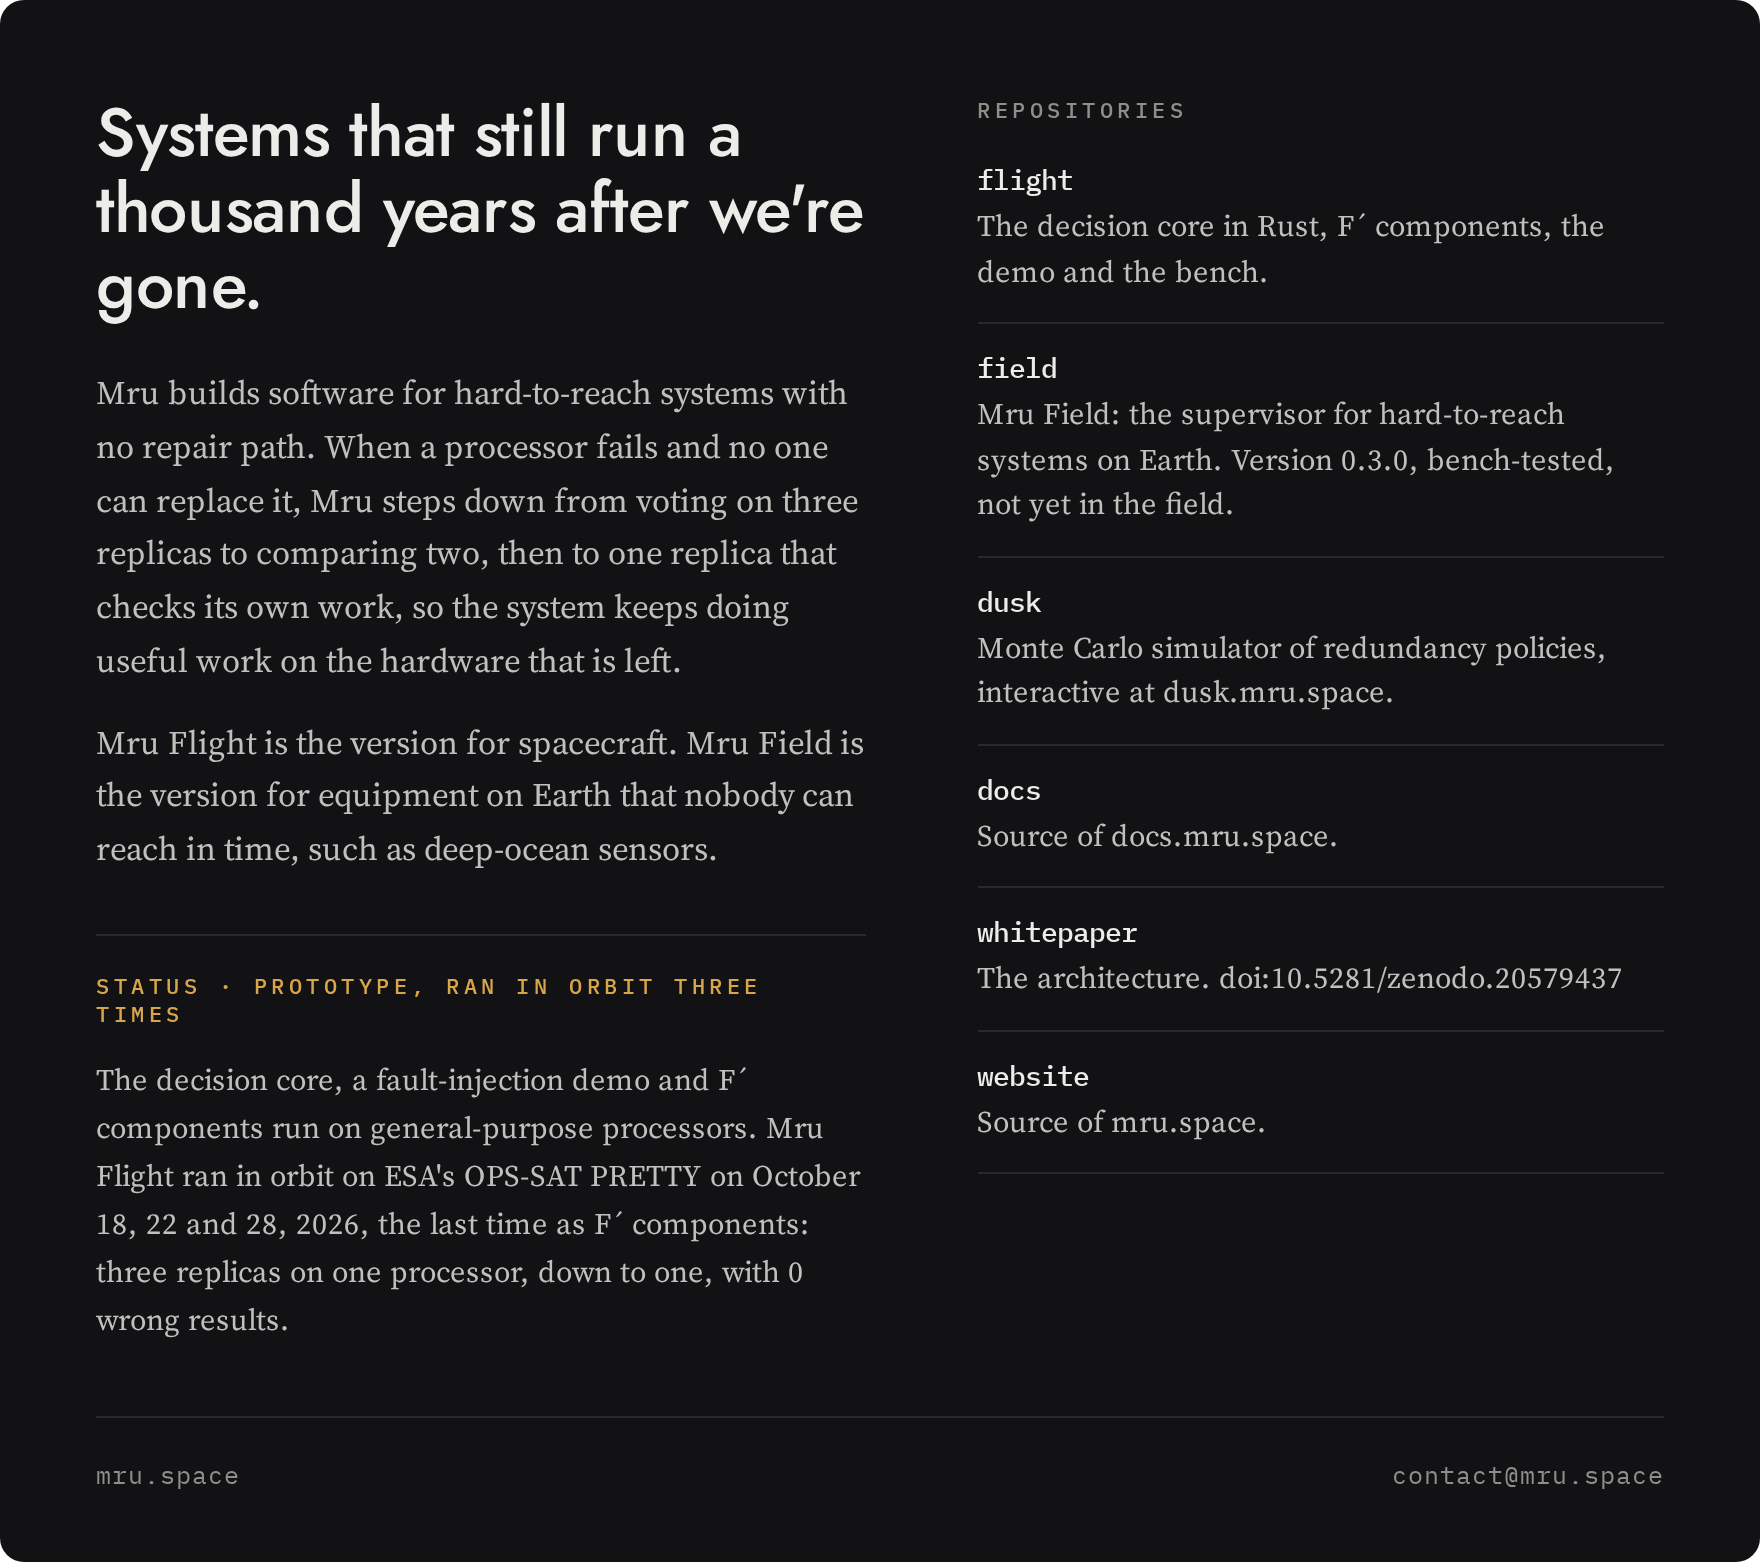
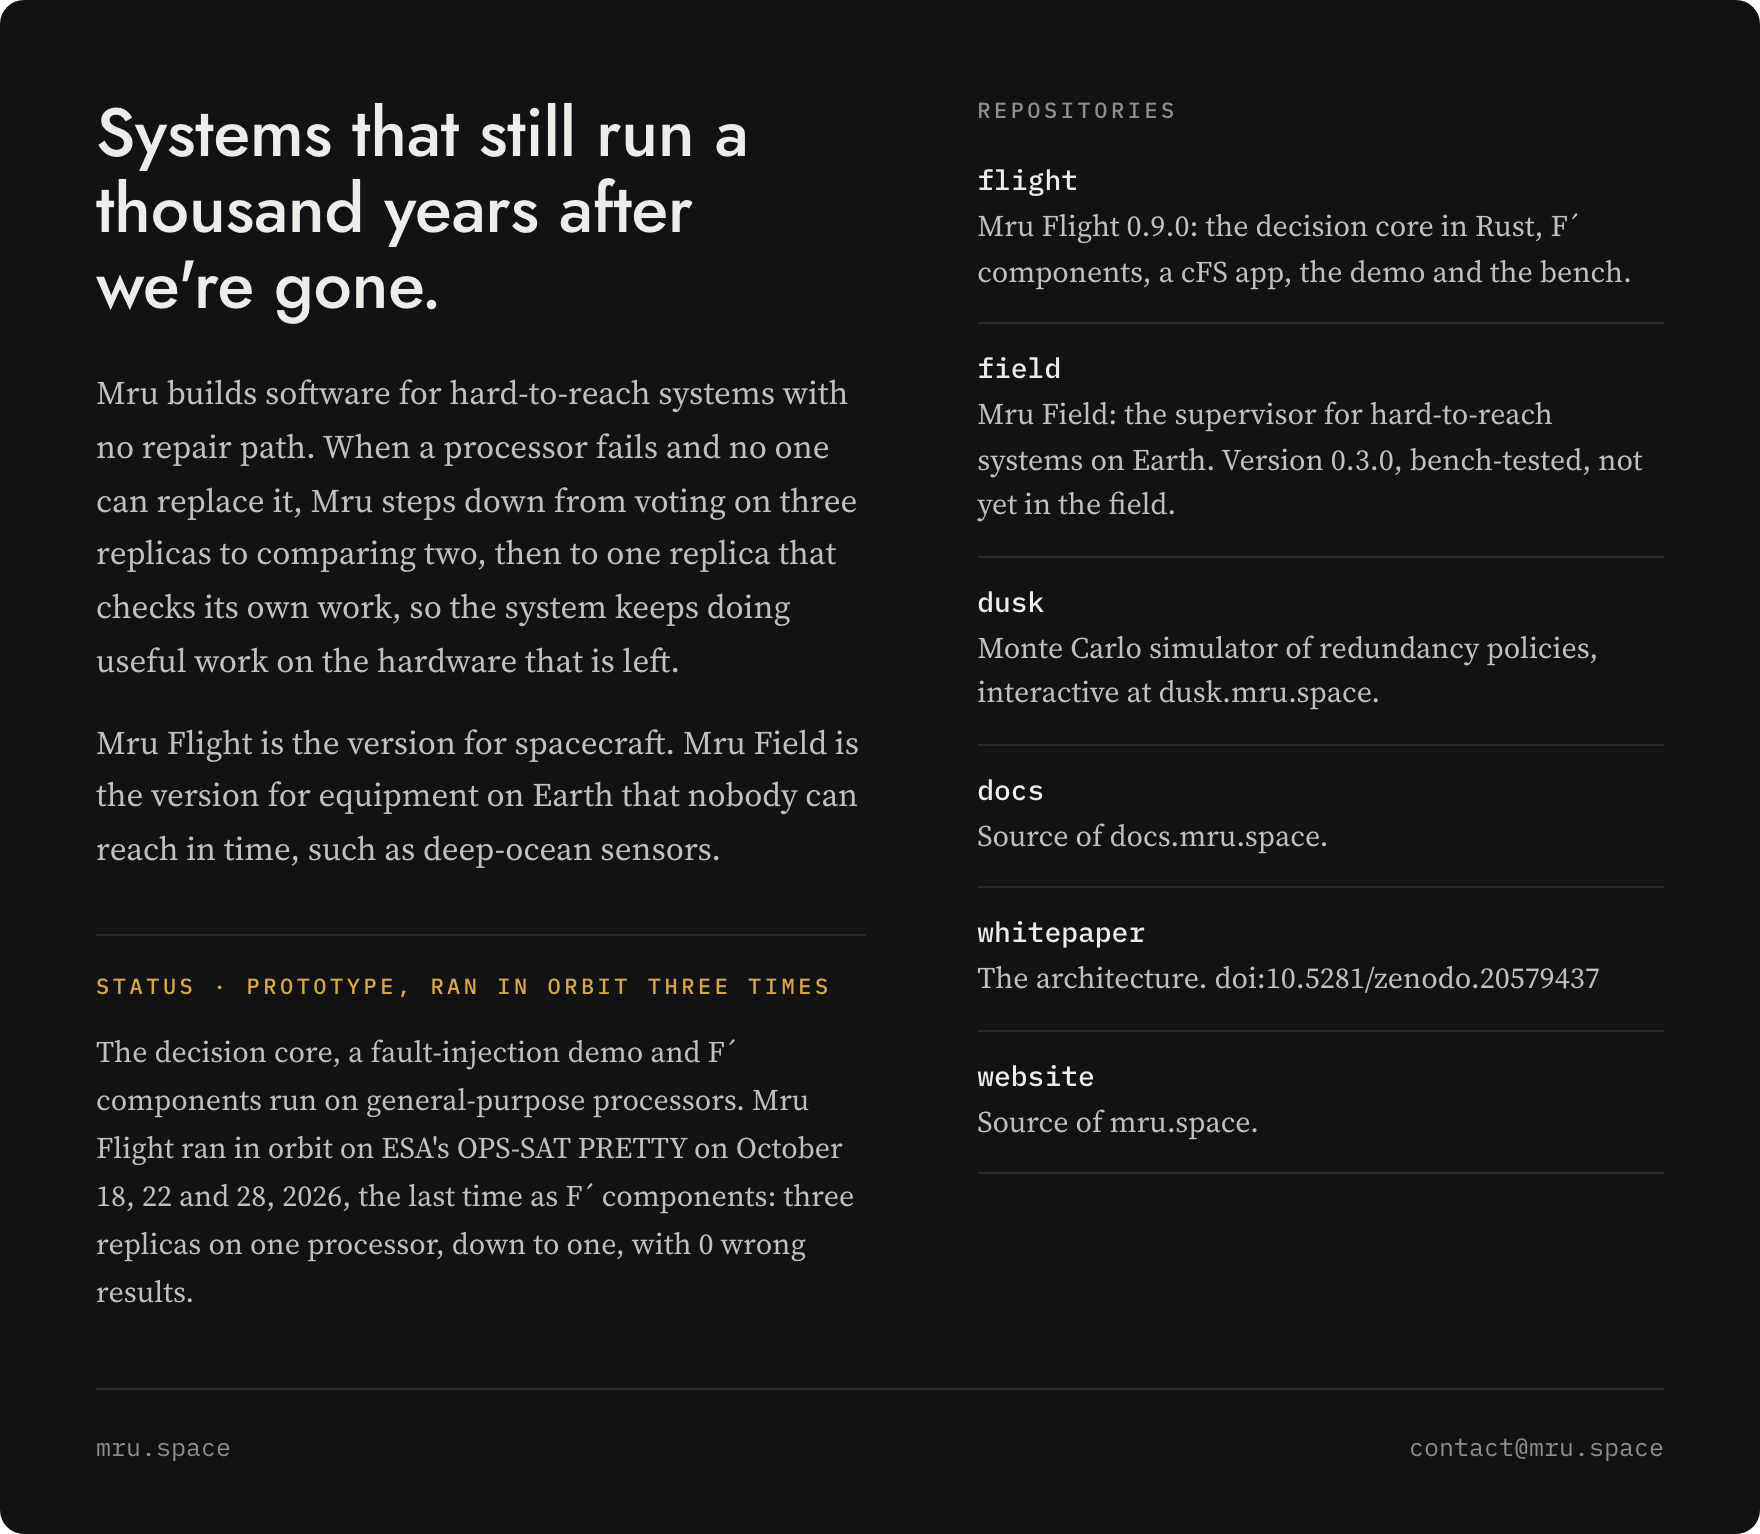
Flight 0.9.0: run 4 approved, cFS, sensors, resets, bit flips; research 010; Field footprint

diff --git a/src/data/nav.ts b/src/data/nav.ts
@@ -43,7 +43,7 @@ export const FOOTER_COLUMNS: { title: string; links: { label: string; href: stri
       { label: 'Log', href: '/research/' },
       { label: 'Whitepaper', href: '/research/' },
       { label: 'Dusk', href: '/research/dusk-results/' },
-      { label: 'Flight prototype', href: '/research/flight-prototype/' },
+      { label: 'Flight 0.9.0', href: '/research/flight-run4-package/' },
     ],
   },
   {
